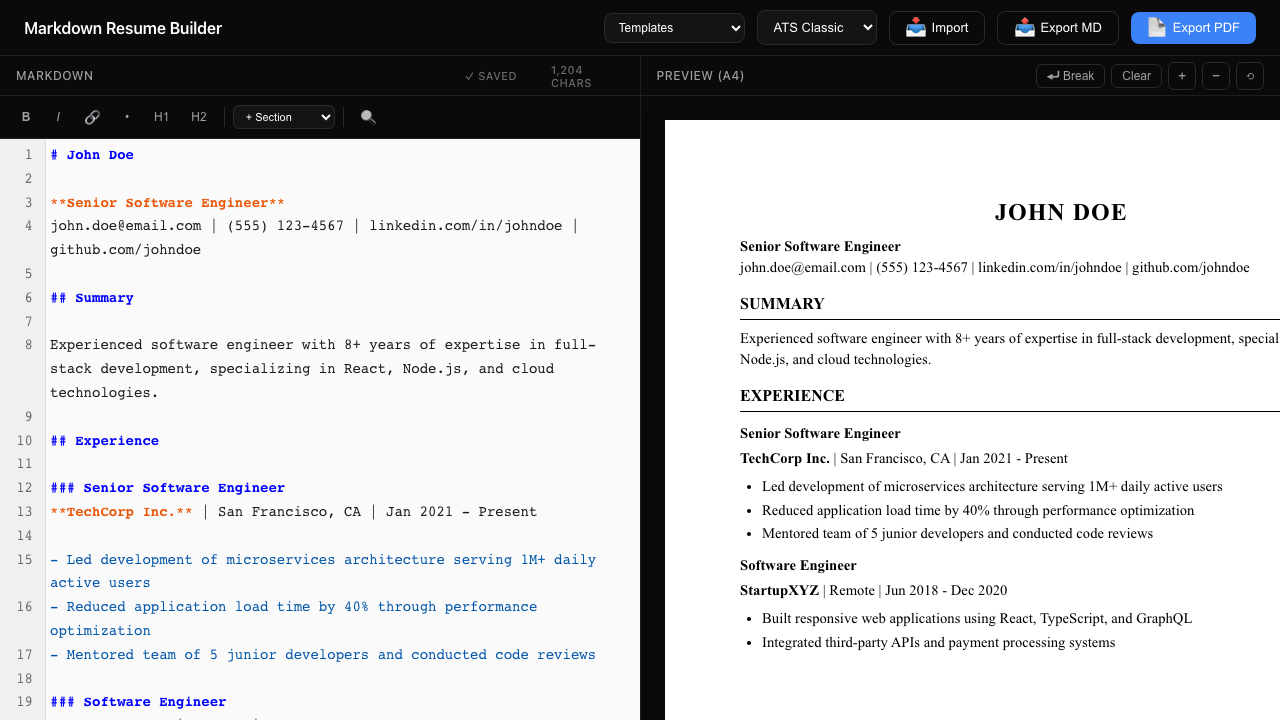
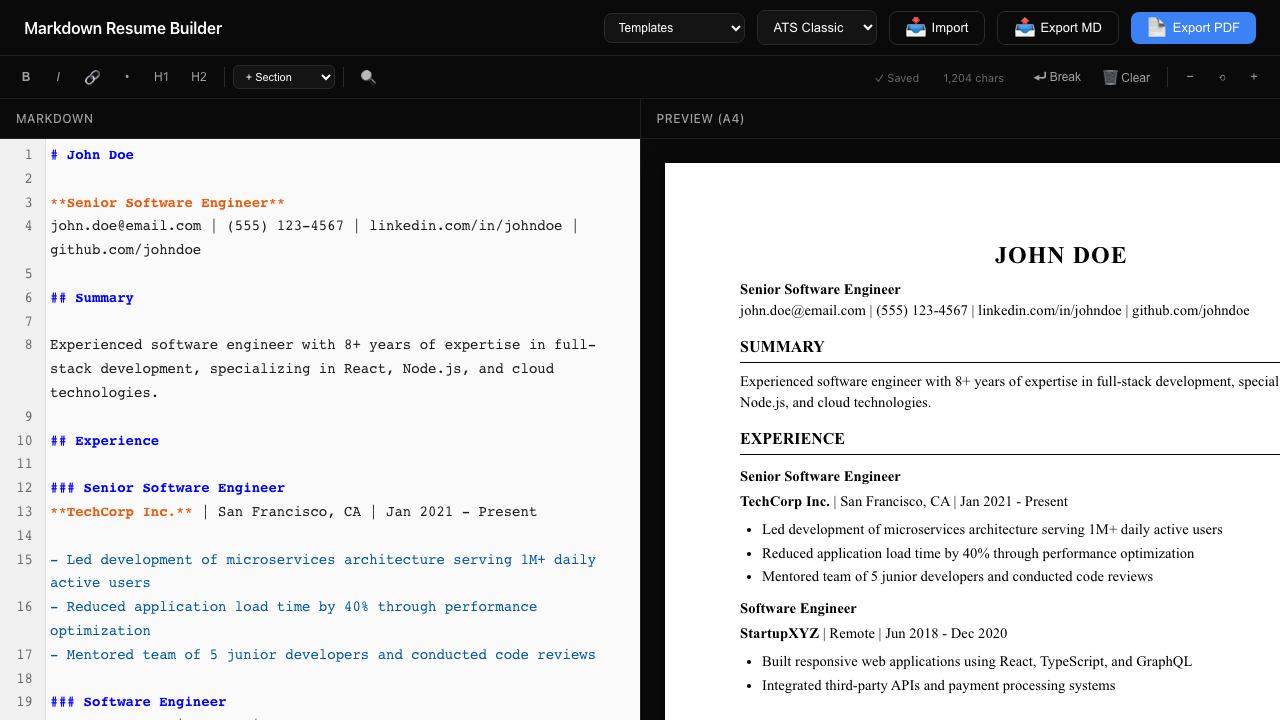
Unified toolbar across both panes and removed top padding from preview

diff --git a/index.html b/index.html
@@ -59,33 +59,45 @@
         <button class="mobile-tab" data-tab="preview">Preview</button>
     </nav>
 
+    <!-- Shared toolbar spanning both panes -->
+    <div class="shared-toolbar">
+        <div class="toolbar-section toolbar-left">
+            <button class="toolbar-btn" data-action="bold" title="Bold (Ctrl+B)"><b>B</b></button>
+            <button class="toolbar-btn" data-action="italic" title="Italic (Ctrl+I)"><i>I</i></button>
+            <button class="toolbar-btn" data-action="link" title="Link (Ctrl+K)">🔗</button>
+            <button class="toolbar-btn" data-action="list" title="Bullet List">•</button>
+            <button class="toolbar-btn" data-action="h1" title="Heading 1">H1</button>
+            <button class="toolbar-btn" data-action="h2" title="Heading 2">H2</button>
+            <span class="toolbar-divider"></span>
+            <select id="section-template" class="toolbar-select" title="Insert Section">
+                <option value="">+ Section</option>
+                <option value="experience">Experience</option>
+                <option value="education">Education</option>
+                <option value="skills">Skills</option>
+                <option value="projects">Projects</option>
+                <option value="certifications">Certifications</option>
+            </select>
+            <span class="toolbar-divider"></span>
+            <button id="find-btn" class="toolbar-btn" title="Find & Replace">🔍</button>
+        </div>
+        <div class="toolbar-section toolbar-center">
+            <span id="save-indicator" class="save-indicator" title="Auto-saved">✓ Saved</span>
+            <span id="char-count" class="char-count">0 chars</span>
+        </div>
+        <div class="toolbar-section toolbar-right">
+            <button id="page-break-btn" class="toolbar-btn" title="Insert page break">⏎ Break</button>
+            <button id="clear-btn" class="toolbar-btn" title="Clear content">🗑 Clear</button>
+            <span class="toolbar-divider"></span>
+            <button id="zoom-out" class="toolbar-btn" title="Zoom Out">−</button>
+            <button id="zoom-reset" class="toolbar-btn" title="Reset Zoom">⟲</button>
+            <button id="zoom-in" class="toolbar-btn" title="Zoom In">+</button>
+        </div>
+    </div>
+
     <main class="split-container">
         <div class="editor-pane active">
             <div class="pane-header">
                 <span>Markdown</span>
-                <div class="editor-actions">
-                    <span id="save-indicator" class="save-indicator" title="Auto-saved">✓ Saved</span>
-                    <span id="char-count" class="char-count">0 chars</span>
-                </div>
-            </div>
-            <div class="editor-toolbar">
-                <button class="toolbar-btn" data-action="bold" title="Bold (Ctrl+B)"><b>B</b></button>
-                <button class="toolbar-btn" data-action="italic" title="Italic (Ctrl+I)"><i>I</i></button>
-                <button class="toolbar-btn" data-action="link" title="Link (Ctrl+K)">🔗</button>
-                <button class="toolbar-btn" data-action="list" title="Bullet List">•</button>
-                <button class="toolbar-btn" data-action="h1" title="Heading 1">H1</button>
-                <button class="toolbar-btn" data-action="h2" title="Heading 2">H2</button>
-                <span class="toolbar-divider"></span>
-                <select id="section-template" class="toolbar-select" title="Insert Section">
-                    <option value="">+ Section</option>
-                    <option value="experience">Experience</option>
-                    <option value="education">Education</option>
-                    <option value="skills">Skills</option>
-                    <option value="projects">Projects</option>
-                    <option value="certifications">Certifications</option>
-                </select>
-                <span class="toolbar-divider"></span>
-                <button id="find-btn" class="toolbar-btn" title="Find & Replace">🔍</button>
             </div>
             <textarea id="markdown-input"></textarea>
         </div>
@@ -93,13 +105,6 @@
         <div class="preview-pane">
             <div class="pane-header">
                 <span>Preview (A4)</span>
-                <div class="pane-actions">
-                    <button id="page-break-btn" class="btn-text" title="Insert page break">⏎ Break</button>
-                    <button id="clear-btn" class="btn-text">Clear</button>
-                    <button id="zoom-in" class="btn-icon" title="Zoom In">+</button>
-                    <button id="zoom-out" class="btn-icon" title="Zoom Out">−</button>
-                    <button id="zoom-reset" class="btn-icon" title="Reset Zoom">⟲</button>
-                </div>
             </div>
             <div class="preview-container">
                 <!-- Pages rendered dynamically here -->

diff --git a/css/main.css b/css/main.css
@@ -166,14 +166,34 @@ body {
     border-radius: var(--radius-sm);
 }
 
-/* Editor Toolbar */
-.editor-toolbar {
+/* Shared Toolbar - spans both panes */
+.shared-toolbar {
     display: flex;
     align-items: center;
-    gap: 4px;
+    justify-content: space-between;
     padding: 6px 12px;
     background: var(--bg-surface);
     border-bottom: 1px solid var(--border-subtle);
+    gap: 12px;
+}
+
+.toolbar-section {
+    display: flex;
+    align-items: center;
+    gap: 4px;
+}
+
+.toolbar-left {
+    flex: 1;
+}
+
+.toolbar-center {
+    justify-content: center;
+    gap: 8px;
+}
+
+.toolbar-right {
+    justify-content: flex-end;
 }
 
 .toolbar-btn {
@@ -360,77 +380,25 @@ body {
 .pane-header {
     background: var(--bg-surface);
     padding: 10px 16px;
-    display: flex;
-    align-items: center;
-    gap: 8px;
     border-bottom: 1px solid var(--border-subtle);
     font-size: 12px;
     color: var(--text-secondary);
     height: 40px;
     user-select: none;
+    display: flex;
+    align-items: center;
 }
 
 .pane-header span {
-    flex: 1;
     font-weight: 500;
     text-transform: uppercase;
     letter-spacing: 0.04em;
 }
 
-.pane-actions {
-    display: flex;
-    gap: 6px;
-    align-items: center;
-}
-
-.editor-actions {
-    display: flex;
-    gap: 6px;
-    align-items: center;
-}
-
-.btn-text {
-    background: transparent;
-    border: 1px solid var(--border-default);
-    color: var(--text-secondary);
-    padding: 4px 10px;
-    border-radius: var(--radius-sm);
-    cursor: pointer;
-    font-size: 12px;
-    transition: all 0.15s ease;
-}
-
-.btn-text:hover {
-    background: var(--bg-hover);
-    color: var(--text-primary);
-    border-color: #3a3a3a;
-}
-
-.btn-icon {
-    background: transparent;
-    border: 1px solid var(--border-default);
-    color: var(--text-secondary);
-    width: 28px;
-    height: 28px;
-    border-radius: var(--radius-sm);
-    cursor: pointer;
-    font-size: 14px;
-    display: flex;
-    align-items: center;
-    justify-content: center;
-    transition: all 0.15s ease;
-}
-
-.btn-icon:hover {
-    background: var(--bg-hover);
-    color: var(--text-primary);
-    border-color: #3a3a3a;
-}
-
 .preview-container {
     flex: 1;
     overflow: auto;
-    padding: 24px;
+    padding: 0 24px 24px 0px;
     background: var(--bg-surface);
     display: flex;
     flex-direction: column;
@@ -572,13 +540,12 @@ body {
     .app-header,
     .editor-pane,
     .pane-header,
+    .shared-toolbar,
+    .mobile-tabs,
     .controls,
     .btn-primary,
     .btn-secondary,
-    .btn-text,
-    .btn-icon,
-    .theme-select,
-    .editor-actions {
+    .theme-select {
         display: none !important;
     }
     
@@ -636,10 +603,6 @@ body {
     
     .pane-header {
         padding: 8px 12px;
-    }
-    
-    .editor-actions {
-        gap: 6px;
     }
 }
 
@@ -733,15 +696,8 @@ body {
         border-bottom: 1px solid var(--border-subtle);
     }
     
-    /* Hide toolbar on mobile */
-    .editor-toolbar {
-        display: none;
-    }
-    
-    /* Hide some elements on mobile */
-    .save-indicator,
-    .char-count,
-    .pane-actions .btn-text {
+    /* Hide shared toolbar on mobile */
+    .shared-toolbar {
         display: none;
     }
     
@@ -758,10 +714,5 @@ body {
     
     .pane-header {
         padding: 8px 12px;
-    }
-    
-    /* Hide zoom buttons on mobile */
-    .pane-actions .btn-icon {
-        display: none;
     }
 }
